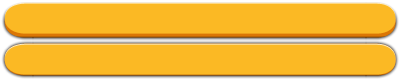
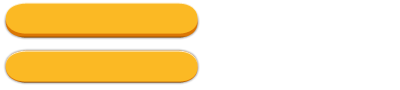
Push to sync changes

diff --git a/lava/_static/styles.css b/lava/_static/styles.css
@@ -301,25 +301,100 @@ ul.nav
     display:inline-block;
 }
 
-.lava-btn-main
+.lava-btn-chunk::before
 {
-    background-image: url(images/btn-main.png);
-    background-position: left top;
+    -webkit-border-radius: 3px;
+    -moz-border-radius: 3px;
+    -webkit-box-shadow: #959595 0 2px 5px;
+    -moz-box-shadow: #959595 0 2px 5px;
+    border-radius: 3px;
+    box-shadow: #959595 0 2px 5px;
+    content: "";
+    display: block;
+    height: 100%;
+    left: 0;
+    padding: 2px 0 0;
+    position: absolute;
+    top: 0;
+    width: 100%;
 }
-.lava-btn-plain
+.lava-btn-chunk:active::before
 {
-    padding: 4px 8px;
-    margin: 3px;
+    padding: 1px 0 0;
+}
+
+.lava-btn-chunk
+{
+    -moz-box-shadow: inset 0 0 0 1px #63ad0d;
+    -webkit-box-shadow: inset 0 0 0 1px #63ad0d;
+    -moz-border-radius: 3px;
+    -webkit-border-radius: 3px;
+    background: #eee;
+    background: -webkit-gradient(linear, 0 0, 0 bottom, from(#eee), to(#e2e2e2));
+    background: -moz-linear-gradient(#eee, #e2e2e2);
+    background: linear-gradient(#eee, #e2e2e2);
+    border: solid 1px #d0d0d0;
+    border-bottom: solid 3px #b2b1b1;
+    border-radius: 3px;
+    box-shadow: inset 0 0 0 1px #f5f5f5;
+    color: #555;
+    font: bold 12px Arial, Helvetica, Clean, sans-serif;
+    margin: 0 25px 25px 0;
+    padding: 10px 20px;
+    position: relative;
+    text-align: center;
     text-decoration: none;
-    border: 1px solid #C8C8C2;
-    background: #FCFCFC;
-    -moz-box-shadow: 0 0 3px rgba(0, 0, 0, 0.1);
-    -webkit-box-shadow: 0 0 3px rgba(0, 0, 0, 0.1);
-    box-shadow: 0 0 3px rgba(0, 0, 0, 0.1);
-    color: #999;
+    text-shadow: 0 1px 0 #fafafa;
 }
-.lava-btn-plain:hover
+.lava-btn-chunk:hover
 {
-    border: 1px solid #a7a7a3;
-    color: #444;
+    background: #e4e4e4;
+    background: -webkit-gradient(linear, 0 0, 0 bottom, from(#e4e4e4), to(#ededed));
+    background: -moz-linear-gradient(#e4e4e4, #ededed);
+    background: linear-gradient(#e4e4e4, #ededed);
+    border: solid 1px #c2c2c2;
+    border-bottom: solid 3px #b2b1b1;
+    box-shadow: inset 0 0 0 1px #efefef;
+}
+.lava-btn-chunk:active
+{
+    background: #dfdfdf;
+    background: -webkit-gradient(linear, 0 0, 0 bottom, from(#dfdfdf), to(#e3e3e3));
+    background: -moz-linear-gradient(#dfdfdf, #e3e3e3);
+    background: linear-gradient(#dfdfdf, #e3e3e3);
+    border: solid 1px #959595;
+    box-shadow: inset 0 10px 15px 0 #c4c4c4;
+    position:relative;
+    top:2px;
+}
+.lava-btn-chunk-yellow
+{
+    background: #feda71;
+    background: -webkit-gradient(linear, 0 0, 0 bottom, from(#feda71), to(#febe4d));
+    background: -moz-linear-gradient(#feda71, #febe4d);
+    background: linear-gradient(#feda71, #febe4d);
+    border: solid 1px #eab551;
+    border-bottom: solid 3px #b98a37;
+    box-shadow: inset 0 0 0 1px #fee9aa;
+    color: #996633;
+    text-shadow: 0 1px 0 #fedd9b;
+}
+.lava-btn-chunk-yellow:hover
+{
+    background: #fec455;
+    background: -webkit-gradient(linear, 0 0, 0 bottom, from(#fec455), to(#fecd61));
+    background: -moz-linear-gradient(#fec455, #fecd61);
+    background: linear-gradient(#fec455, #fecd61);
+    border: solid 1px #e6a93d;
+    border-bottom: solid 3px #b98a37;
+    box-shadow: inset 0 0 0 1px #fedb98;
+}
+.lava-btn-chunk-yellow:active
+{
+    background: #f9bd4f;
+    background: -webkit-gradient(linear, 0 0, 0 bottom, from(#f9bd4f), to(#f0b64d));
+    background: -moz-linear-gradient(#f9bd4f, #f0b64d);
+    background: linear-gradient(#f9bd4f, #f0b64d);
+    border: solid 1px #a77f35;
+    box-shadow: inset 0 10px 15px 0 #dba646;
 }

diff --git a/lava/_classes/lavaAboutPage.php b/lava/_classes/lavaAboutPage.php
@@ -5,30 +5,43 @@ class lavaAboutPage extends lavaPage
 
     function displayPage()
     {
+        $gettingStartedItems = array();
+
+        if( $this->_pages( false )->pageExists( "settings" ) )
+        {
+            $link = $this->_pages( false )->fetchPage( "settings" )->url();
+
+            $gettingStartedItems[] = array(
+                "text" => __( "Configure Settings", $this->_framework() ),
+                "url" => $link
+            );
+        }
+
+        if( $this->_pages( false )->pageExists( "skins" ) )
+        {
+            $link = $this->_pages( false )->fetchPage( "skins" )->url();
+
+            $gettingStartedItems[] = array(
+                "text" => __( "Configure Skin", $this->_framework() ),
+                "url" => $link
+            );
+        }
+
+        if( $this->_pages( false )->pageExists( "extensions" ) )
+        {
+            $link = $this->_pages( false )->fetchPage( "extensions" )->url();
+
+            $gettingStartedItems[] = array(
+                "text" => __( "Enable Extensions", $this->_framework() ),
+                "url" => $link
+            );
+        }
         ?>
         <h2><?php _e( "Getting Started", $this->_framework() ) ?></h2>
-        <div class="content-box-cntr clearfix getting-started">
-            <!-- Plugin Settings-->
-            <div class="content-box content-box-3">
-                <div class="inner">
-                    <img class="lava-img-loader" alt="Settings Screenshot" height="auto" width="100%" src="<?php echo plugins_url( "lava/_static/images/settings_getting_started.png", $this->_file() ) ?>"/>
-                    <a style="margin-top:10px;" href="#" class="lava-btn lava-btn-plain"><?php _e( "Configure Settings", $this->_framework() ); ?></a>
-                </div>
-            </div>
-            <!-- Plugin Skin-->
-            <div class="content-box content-box-3">
-                <div class="inner">
-                    <img class="lava-img-loader" alt="Skins Screenshot" height="auto" width="100%" src="<?php echo plugins_url( "lava/_static/images/settings_getting_started.png", $this->_file() ) ?>"/>
-                    <a style="margin-top:10px;" href="#" class="lava-btn lava-btn-plain"><?php _e( "Configure Appearance", $this->_framework() ); ?></a>
-                </div>
-            </div>
-            <!-- Plugin Extensions-->
-            <div class="content-box content-box-3">
-                <div class="inner">
-                    <img class="lava-img-loader" alt="Extensions screenshot" height="auto" width="100%" src="<?php echo plugins_url( "lava/_static/images/settings_getting_started.png", $this->_file() ) ?>"/>
-                    <a style="margin-top:10px;" href="#" class="lava-btn lava-btn-plain"><?php _e( "Enable extensions", $this->_framework() ); ?></a>
-                </div>
-            </div>
+        <div style="text-align:center;" class="clearfix getting-started">
+            <?php foreach( $gettingStartedItems as $item): ?>
+            <a href="<?php echo $item[ "url" ]; ?>" class="lava-btn lava-btn-chunk lava-btn-chunk-yellow"><?php echo $item[ "text" ]; ?></a>
+            <?php endforeach; ?>
         </div>
         <?php
     }

diff --git a/lava/_classes/lavaPages.php b/lava/_classes/lavaPages.php
@@ -100,7 +100,26 @@ class lavaPages extends lavaBase
         {
             $this->chain[ "current" ] = $this->adminPages[ $slug ];
         }
+        $slug = $this->_slug( $slug );
+        if( isset( $this->adminPages[ $slug ] ) )
+        {
+            $this->chain[ "current" ] = $this->adminPages[ $slug ];
+        }
         return $this;
+    }
+
+    function pageExists( $slug )
+    {
+        if( isset( $this->adminPages[ $slug ] ) )
+        {
+            return true;
+        }
+        $slug = $this->_slug( $slug );
+        if( isset( $this->adminPages[ $slug ] ) )
+        {
+            return true;
+        }
+        return false;
     }
 
     function adminPages( $filter = true )
@@ -270,6 +289,7 @@ class lavaPages extends lavaBase
         {
             $this->styles[ $name ] = $path;
         }
+        return $this;
     }
 
     function addScript( $name, $path = "", $external = false )
@@ -282,6 +302,7 @@ class lavaPages extends lavaBase
         {
             $this->scripts[ $name ] = $path;
         }
+        return $this;
     }
 
     //@deprecated

diff --git a/lava/_classes/lavaSettings.php b/lava/_classes/lavaSettings.php
@@ -47,15 +47,15 @@ class lavaSettings extends lavaBase
      * 
      * @param $name The name of the setting - should be unique within the section
      * @param $who - Who is adding the setting:
-     *      "plugin" - This is a plugin setting like "enabled"
-     *      "theme" - This is a theme setting
+     *      "settings" - This is a plugin setting like "enabled"
+     *      "skins" - This is a skin setting
      *      "keyholder" - This is a licensing setting (usually used to prevent file tamper)
      * 
      * @return lavaSetting
      * 
      * @since 1.0.0
      */
-    function addSetting( $key, $who = "plugin" )
+    function addSetting( $key, $who = "settings" )
     {
         
         if( !isset( $this->settings[ $who ][ $key ] ) )

diff --git a/lava/_classes/lavaSettingsPage.php b/lava/_classes/lavaSettingsPage.php
@@ -2,5 +2,38 @@
 class lavaSettingsPage extends lavaPage
 {
     public $multisiteSupport = true;
+
+    function registerActions()
+    {
+
+        add_filter(  )
+    }
+
+    function loadPage()
+    {
+        //do settings save
+        //do redirect
+        //queue notifications
+    }
+
+    function displayPage()
+    {
+        if( is_multisite() and defined( "WP_NETWORK_ADMIN" ) and WP_NETWORK_ADMIN == true)
+            $this->networkChecks();
+        else
+            $this->siteChecks();
+        
+        $settings = apply_filters(  )
+    }
+
+    function siteChecks()
+    {
+        
+    }
+
+    function networkChecks()
+    {
+        
+    }
 }
 ?>

diff --git a/lava/_classes/lavaPlugin.php b/lava/_classes/lavaPlugin.php
@@ -204,7 +204,7 @@ class lavaPlugin
      * 
      * @since 1.0.0
      */
-    function _pages()
+    function _pages( $reset = true)
     {
         return $this->_handle( "Pages", $reset );
     }
@@ -216,9 +216,14 @@ class lavaPlugin
      * 
      * @since 1.0.0
      */
-    function _tables()
+    function _tables( $reset = true)
     {
         return $this->_handle( "Tables", $reset );
+    }
+
+    function _misc( $reset = true )
+    {
+        return $this->_handle( "MiscFunctions", $reset);
     }
     
 }

diff --git a/lava/_classes/lavaPage.php b/lava/_classes/lavaPage.php
@@ -39,6 +39,11 @@ class lavaPage extends lavaBase
         $this->title( $slug );
         $this->capability( "manage_options" );
         $this->lavaCallReturn = $this->_pages( false );
+
+        if( is_callable( array( $this, "registerActions" ) ) )
+        {
+            $this->registerActions();
+        }
     }
 
     function sidebar( $enable = true )

diff --git a/lava/_classes/lavaMiscFunctions.php b/lava/_classes/lavaMiscFunctions.php
@@ -1,0 +1,13 @@
+<?php
+class lavaMiscFunctions extends lavaBase
+{
+    function current_context_url( $path )
+    {
+        if( is_multisite() and defined( 'WP_NETWORK_ADMIN' ) and WP_NETWORK_ADMIN == true )
+        {
+            return network_admin_url( $path );
+        }
+        return admin_url( $path );
+    }
+}
+?>

diff --git a/lava/_classes/lavaSkinsPage.php b/lava/_classes/lavaSkinsPage.php
@@ -1,5 +1,5 @@
 <?php
-class lavaSkinsPage extends lavaPage
+class lavaSkinsPage extends lavaSettingsPage
 {
     public $multisiteSupport = true;
 }
